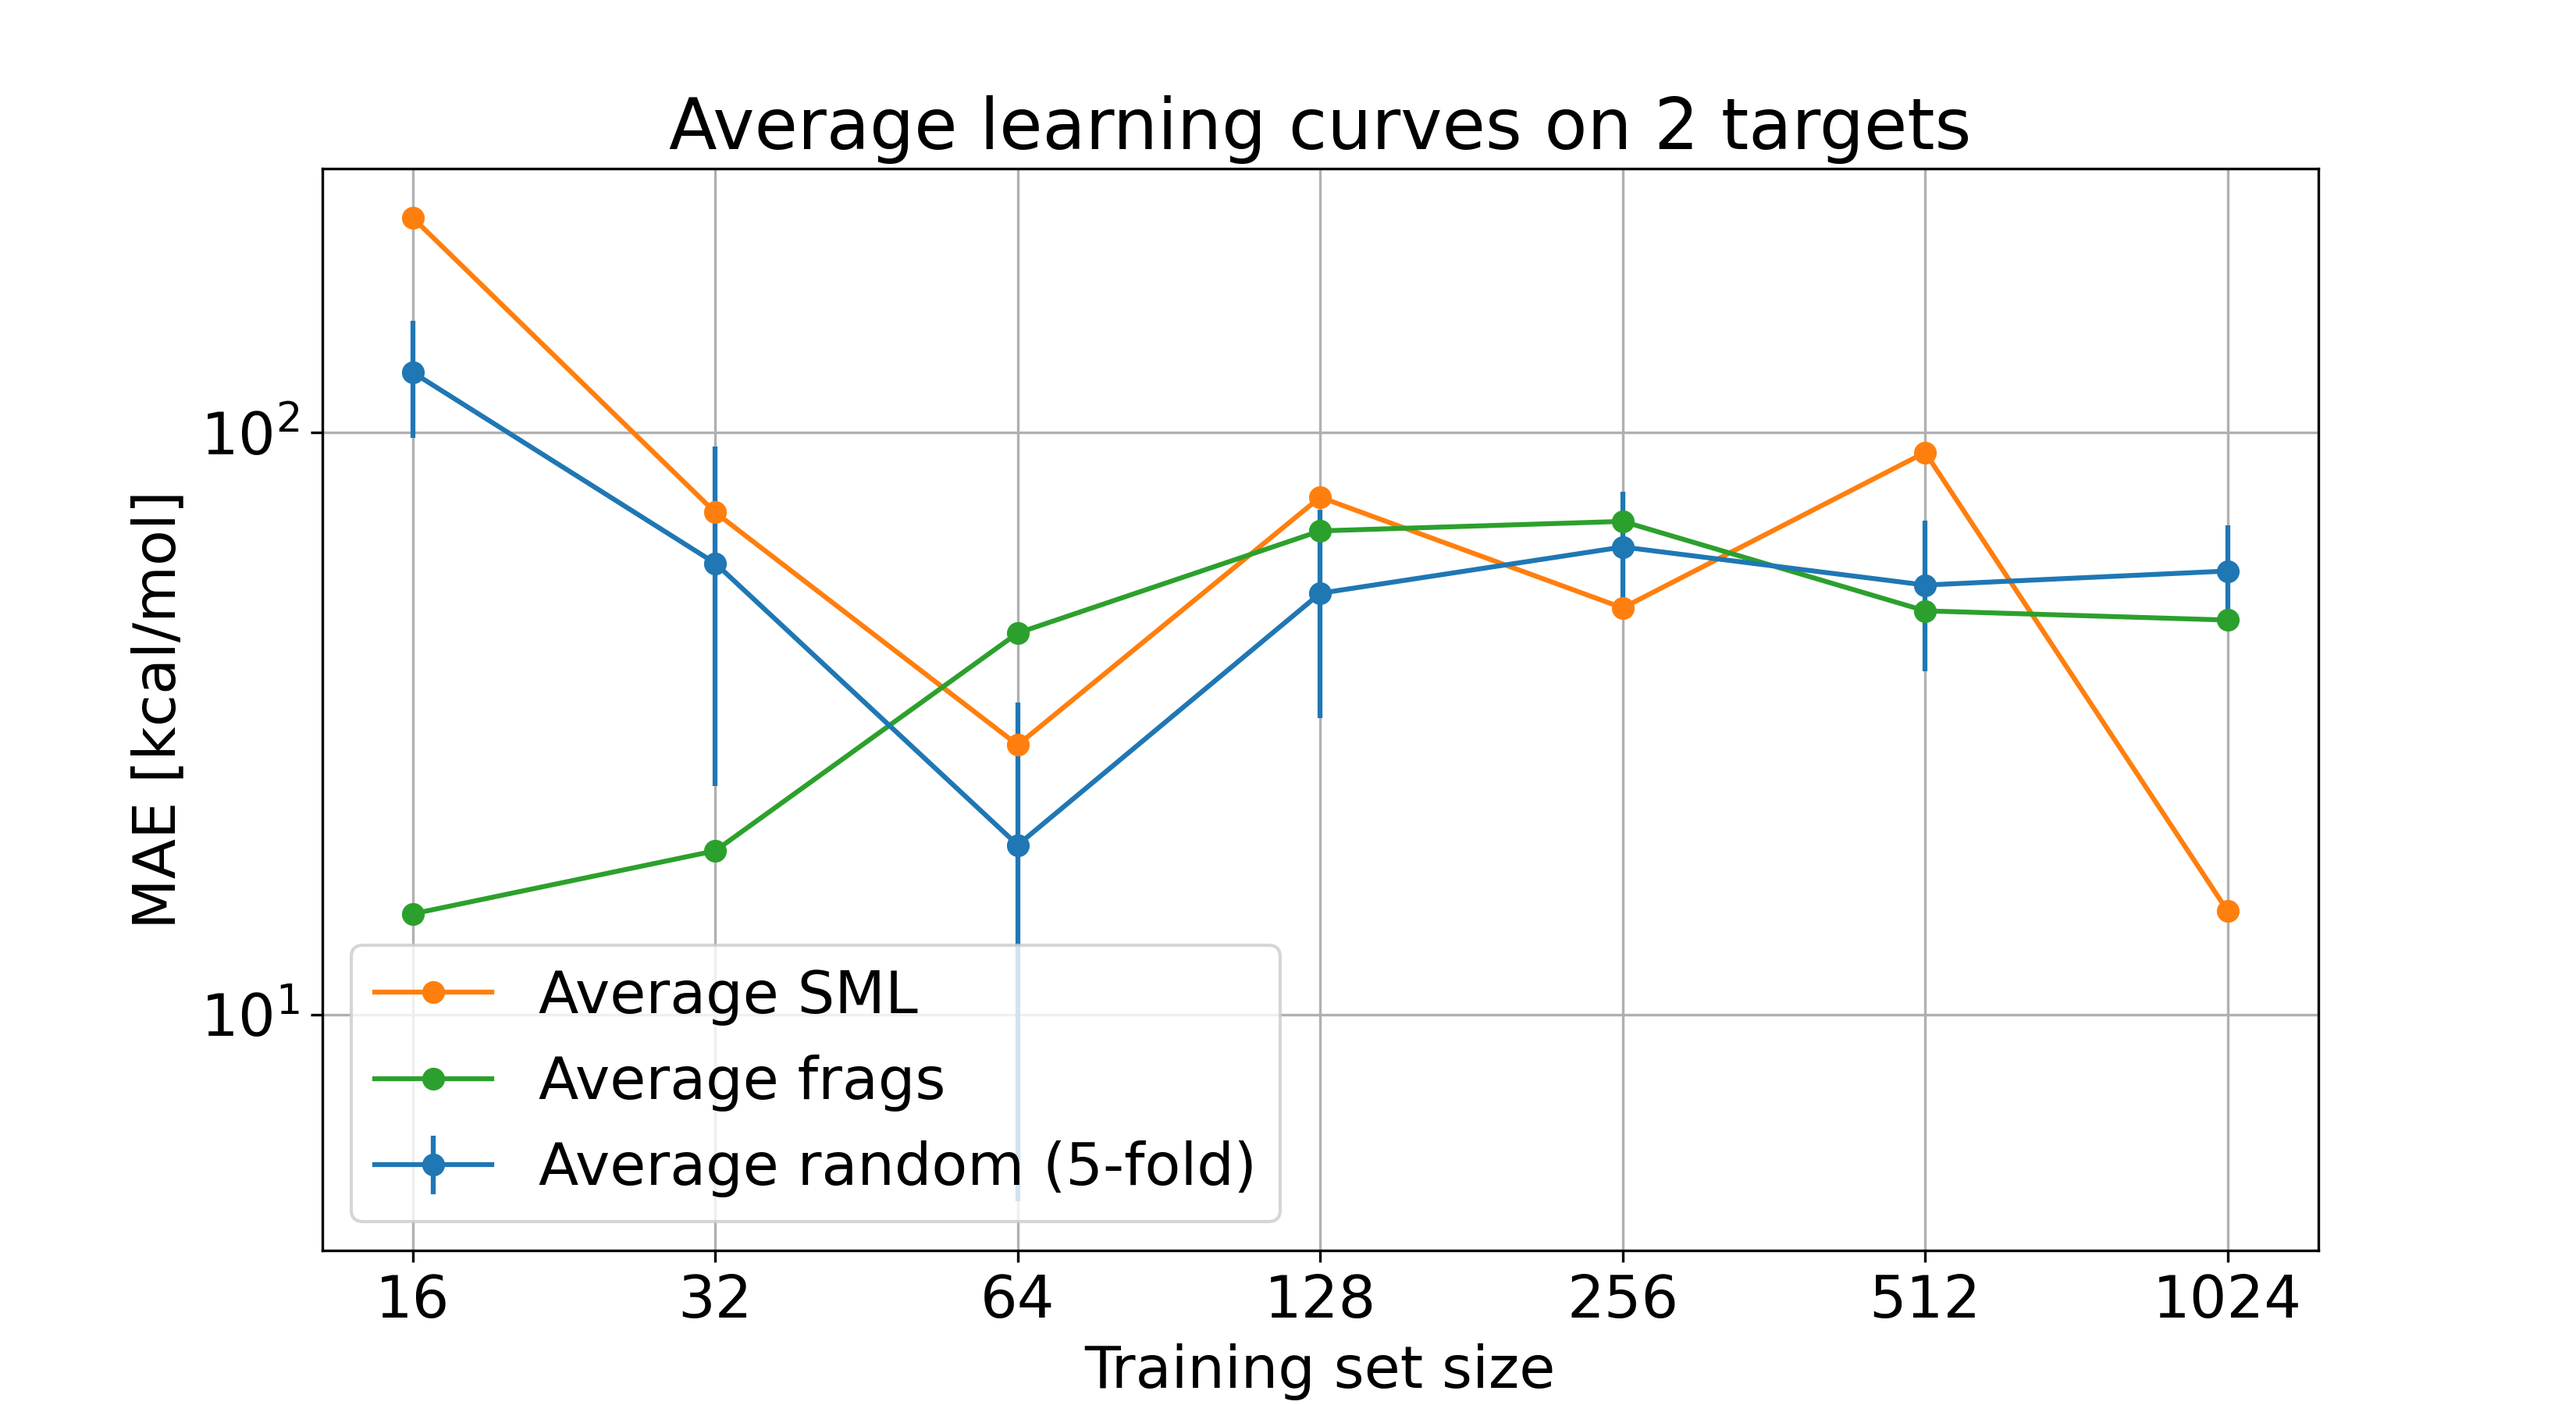
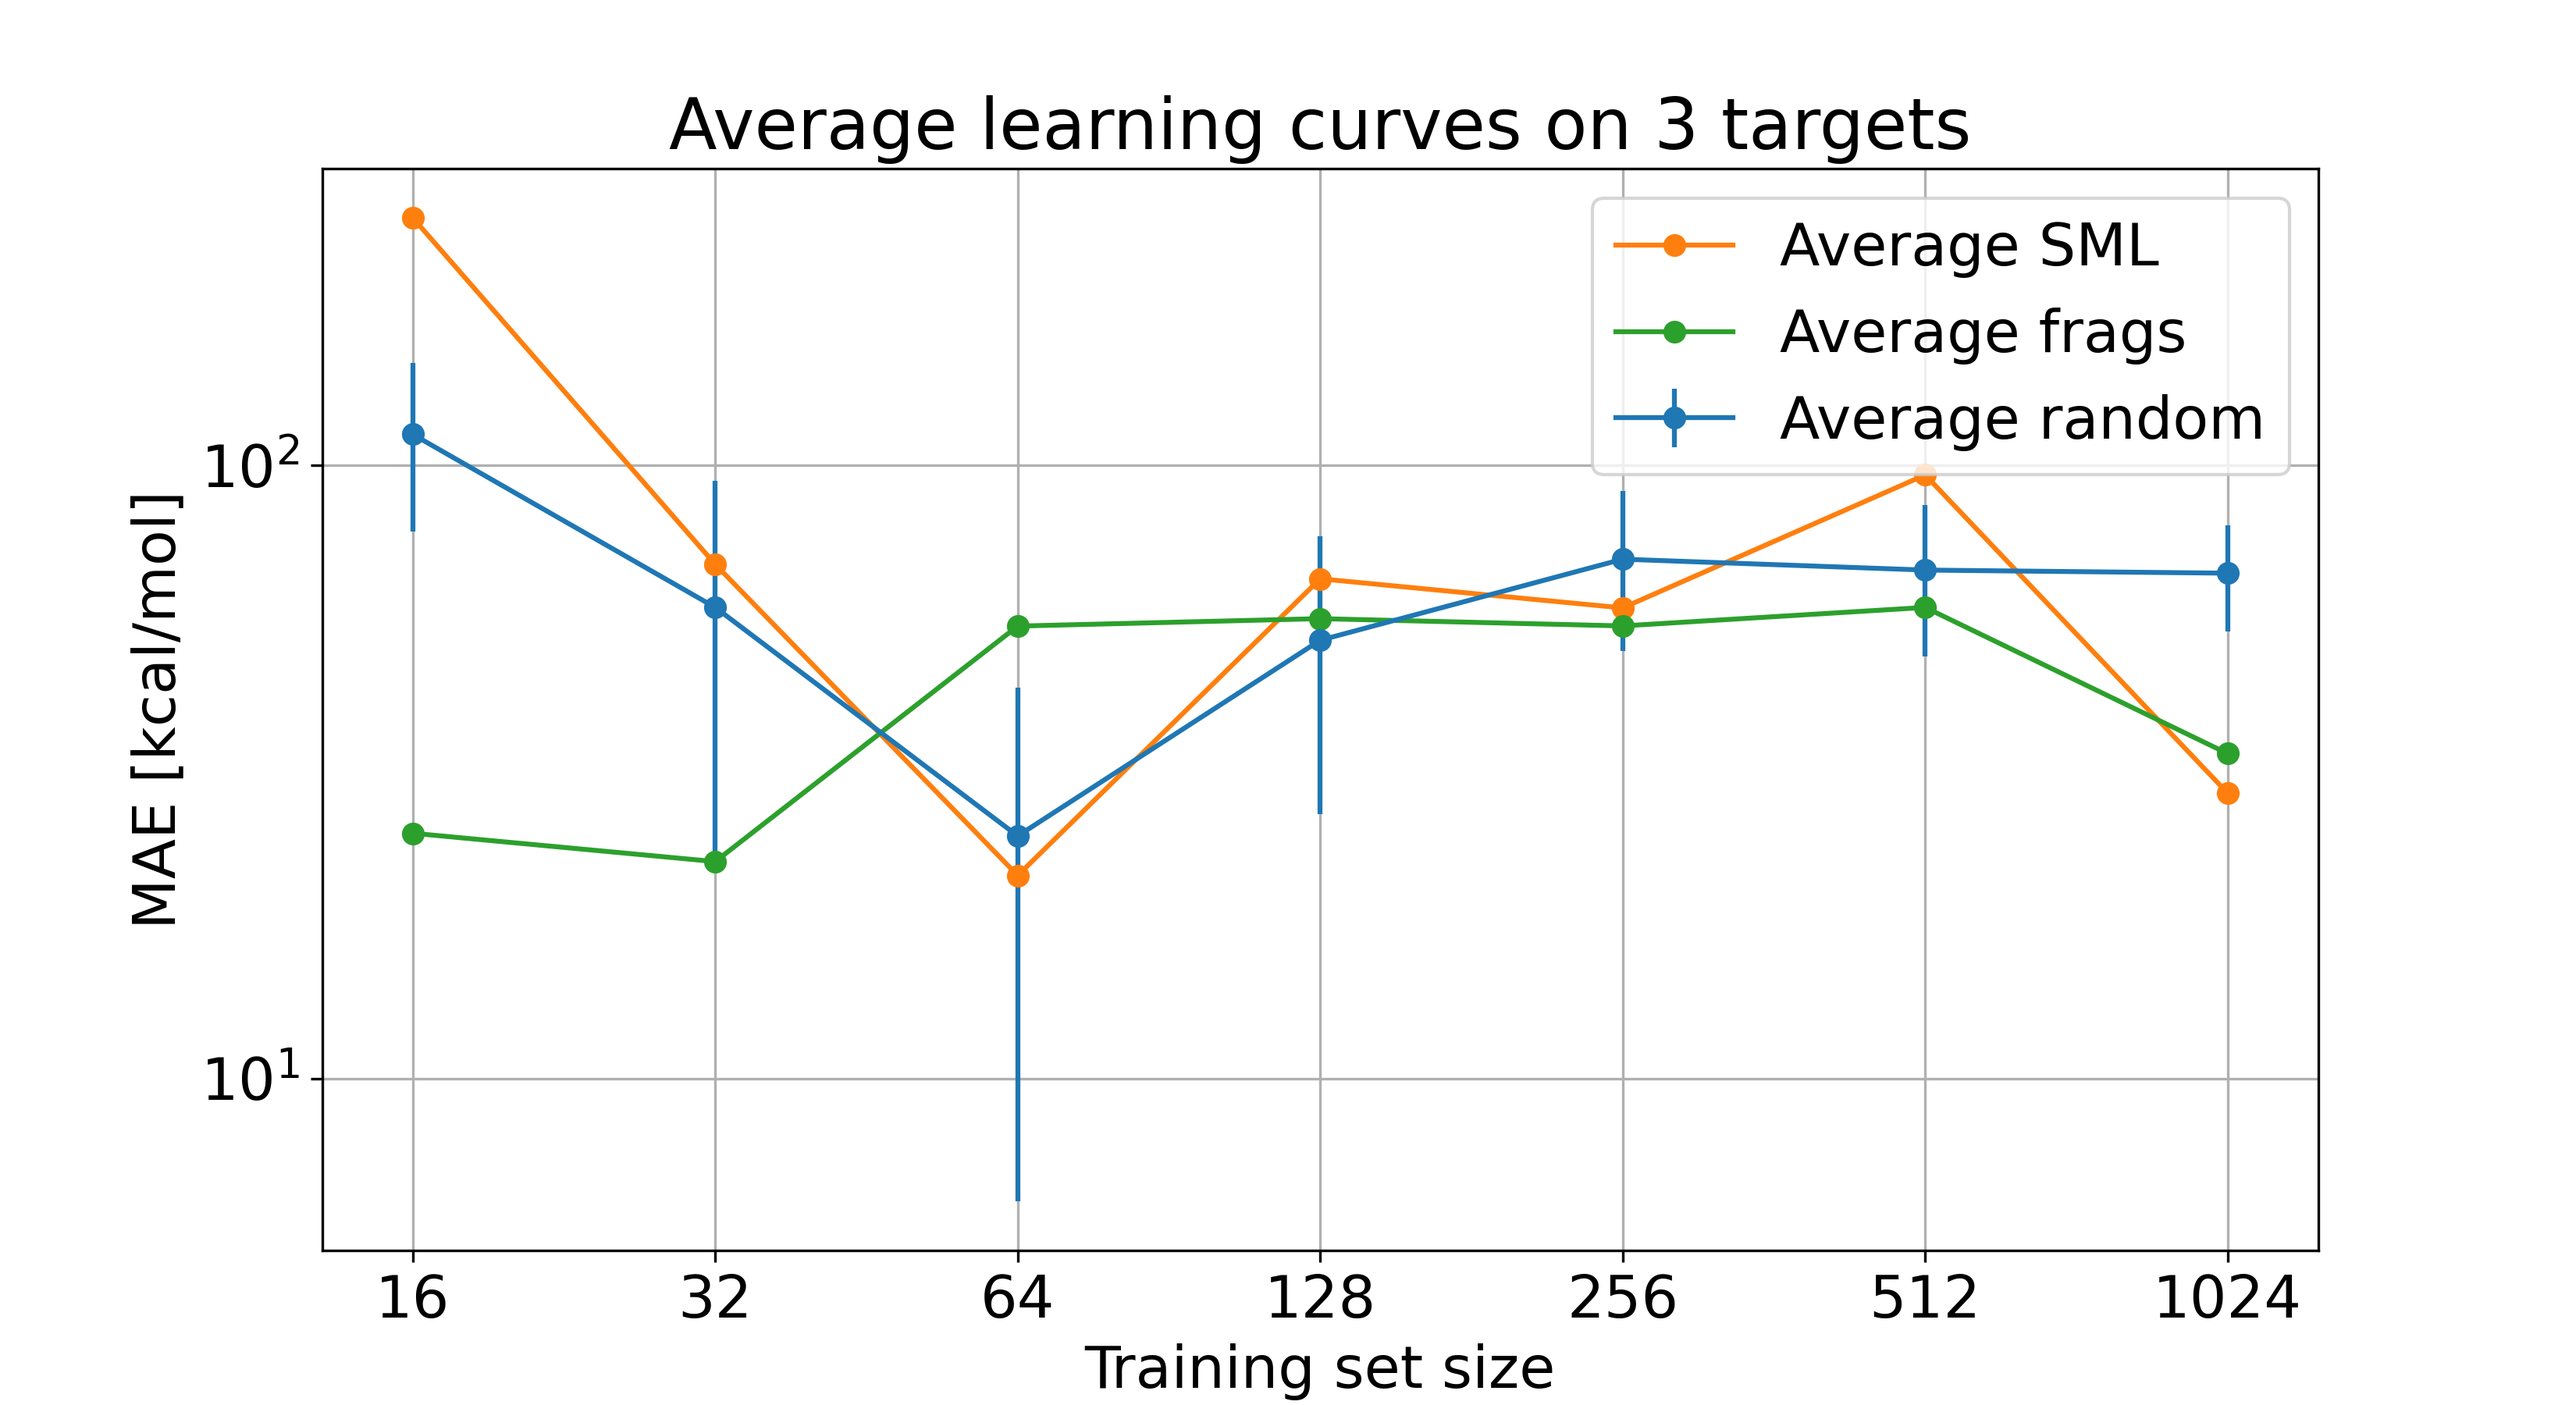
Peparing for taking targets from qm7.

diff --git a/cluster/scripts/plots.py b/cluster/scripts/plots.py
@@ -7,9 +7,9 @@ plt.rcParams.update({"font.size": 18})
 Ha2kcal = 627.5
 
 
-def plots(parent_directory, database, targets, representation, config, algorithms):
+def plots_individual(parent_directory, database, targets, representation, pen):
     """
-    Draw combined plots and average plot of the learning curves and saves them to plots/.
+    Draw combined plots of the learning curves for each target and saves them to plots/.
 
     Parameters:
         parent_directory: cluster/ absolute path
@@ -19,11 +19,6 @@ def plots(parent_directory, database, targets, representation, config, algorithm
         config: config directory. Must include key "penalty"
         algorithms: list of algorithms to test (array(str)). WARNING only ["fragments", "sml"] is handled.
     """
-
-    for algorithm in algorithms:
-        assert algorithm in ["fragments", "sml"], "only fragments and sml algorithms are handled"
-
-    pen = config["penalty"]
 
     # individual plots
     for target_name in targets:
@@ -74,8 +69,21 @@ def plots(parent_directory, database, targets, representation, config, algorithm
         SAVE_PATH = f"{parent_directory}plots/{representation}_{database}_{target_name}_{pen}.png"
         fig.savefig(SAVE_PATH, dpi=300)
         print(f"Saved plot to {SAVE_PATH}")
+    return 0
 
-    # average plot
+
+def plots_average(parent_directory, database, targets, representation, pen):
+    """
+    Draw average plots of the learning curves and saves them to plots/.
+
+    Parameters:
+        parent_directory: cluster/ absolute path
+        database: name of database (str) eg "qm7"
+        targets: array of target names (array(str))
+        representation: representation (str) eg "FCHL"
+        config: config directory. Must include key "penalty"
+        algorithms: list of algorithms to test (array(str)). WARNING only ["fragments", "sml"] is handled.
+    """
     MEAN_RANDOM = []
     STD_RANDOM = []
 
@@ -109,8 +117,8 @@ def plots(parent_directory, database, targets, representation, config, algorithm
     # create figure and axis
     fig, ax = plt.subplots(figsize=(11, 6))
     # plot learning curve random with std as error bars
-    CV = len(RANDOM_CURVE["all_maes_random"])
-    ax.errorbar(N, MEAN_RANDOM, yerr=STD_RANDOM, fmt="o-", label=f"Average random ({CV}-fold)")
+    # TODO: different targets have different CV!
+    ax.errorbar(N, MEAN_RANDOM, yerr=STD_RANDOM, fmt="o-", label=f"Average random")
     # plot learning curve SML
     ax.plot(N, SML, "o-", label="Average SML")
     # plot learning curve ALGO

diff --git a/cluster/config.py b/cluster/config.py
@@ -7,25 +7,19 @@ config = {
     "remove_target_from_database": False,
     "representation": "FCHL",
     ###
-    "target_names": [
-        #"sildenafil",
-        "penicillin",
-        "troglitazone",
-    ],  # corresponding names must be in targets/targets.csv
-    "plot_average_target_names": [ 
-        "sildenafil",
-        "penicillin",
-        "troglitazone",
-    ],
+    # corresponding names must be in targets/targets.csv
+    "target_names": ["sildenafil", "penicillin", "troglitazone"],
+    "plot_average_target_names": ["sildenafil", "penicillin", "troglitazone"],
     ###
     "generate_database": False,
-    "generate_targets": True,
-    "sml_subset": True,
-    "algo_model": True,
-    "algo_subset": True,
-    "learning_curves": True,
-    "learning_curves_random": True,
-    "plots": True,
+    "generate_targets": False,
+    "sml_subset": False,
+    "algo_model": False,
+    "algo_subset": False,
+    "learning_curves": False,
+    "learning_curves_random": False,
+    "plots_individual": True,
+    "plots_average": True,
     ###
     "scope": "local_vector",
     "penalty": 0,
@@ -39,3 +33,20 @@ config = {
     ###
     "random_state": None,  # for multiple random subset selection, don't use a fixed state!
 }
+
+############ for 2 targets inside qm7 ############
+
+# import numpy as np
+# import pandas as pd
+
+# qm7 = np.load("/home/haeberle/molekuehl/cluster/data/FCHL_qm7.npz", allow_pickle=True)
+# qm7_df = pd.DataFrame({"ncharges": qm7["ncharges"], "labels": qm7["labels"]})
+
+# num_heavy_atoms = qm7_df["ncharges"].map(lambda charges: sum(charges != 1))
+
+# # take 2 with fixed random state (doesn't matter so much)
+# target_sample = qm7_df[num_heavy_atoms >= 7]["labels"].sample(2, random_state=42).values
+
+# config["target_names"] = target_sample
+# config["plot_average_target_names"] = target_sample
+# config["remove_target_from_database"] = True

diff --git a/cluster/main.py b/cluster/main.py
@@ -122,22 +122,32 @@ if config["learning_curves_random"]:
 
 # %%
 # draw learning curves
-from scripts.plots import plots
+from scripts.plots import plots_average, plots_individual
 
-# TODO: split plots() into individal and average plots
-# and use config["plot_average_target_names"] for the latter
-if config["plots"]:
+if config["plots_individual"]:
     t = time.time()
-    plots(
+    plots_individual(
         parent_directory=current_folder,
         database=database,
         targets=target_names,
         representation=representation,
-        config=config,
-        algorithms=algorithms,
+        pen=config["penalty"],
     )
     t = time.time() - t
-    dump["time_plots"] = t
+    dump["time_plots_individual"] = t
+
+if config["plots_average"]:
+    t = time.time()
+    plots_average(
+        parent_directory=current_folder,
+        database=database,
+        targets=config["plot_average_target_names"],
+        representation=representation,
+        pen=config["penalty"],
+    )
+    t = time.time() - t
+    dump["time_plots_average"] = t
+
 
 # %%
 import json
